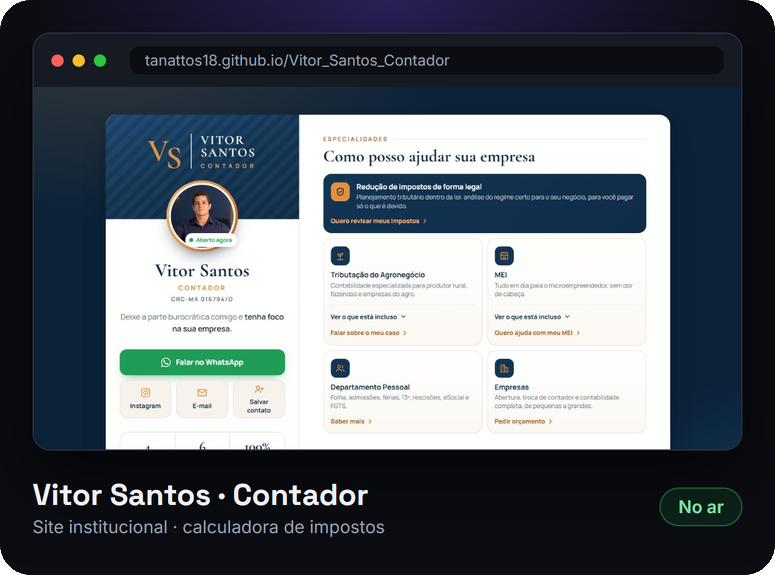
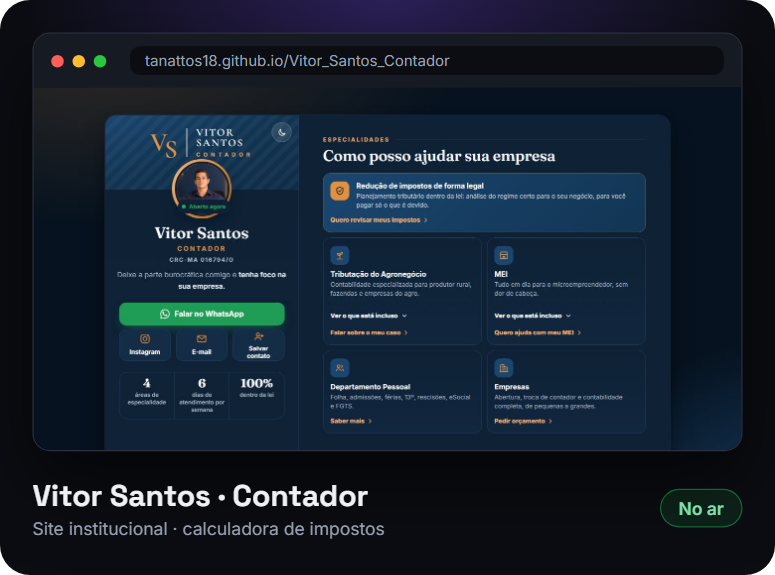
Atualiza a imagem do site do Vitor Santos com o novo visual

diff --git a/profile/README.md b/profile/README.md
@@ -58,7 +58,7 @@ Não é mockup: são produtos reais, criados, publicados e mantidos por nós. Cl
     </td>
   </tr>
   <tr>
-    <td width="50%"><a href="https://tanattos18.github.io/Vitor_Santos_Contador/"><img src="https://raw.githubusercontent.com/akyllastudio/.github/main/assets/projeto-vitor-santos.png" alt="Site do contador Vitor Santos" width="100%"></a></td>
+    <td width="50%"><a href="https://tanattos18.github.io/Vitor_Santos_Contador/"><img src="https://raw.githubusercontent.com/akyllastudio/.github/main/assets/projeto-vitor-santos.png?v=2" alt="Site do contador Vitor Santos" width="100%"></a></td>
     <td width="50%" valign="middle">
       <h3>Vitor Santos · Contador</h3>
       <b>Site institucional · No ar</b><br><br>
